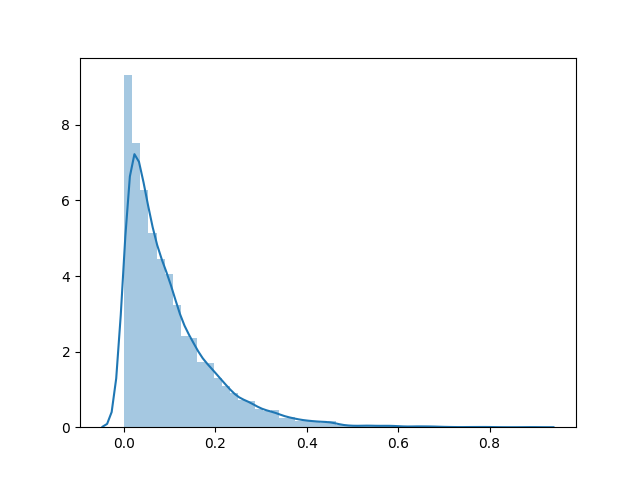
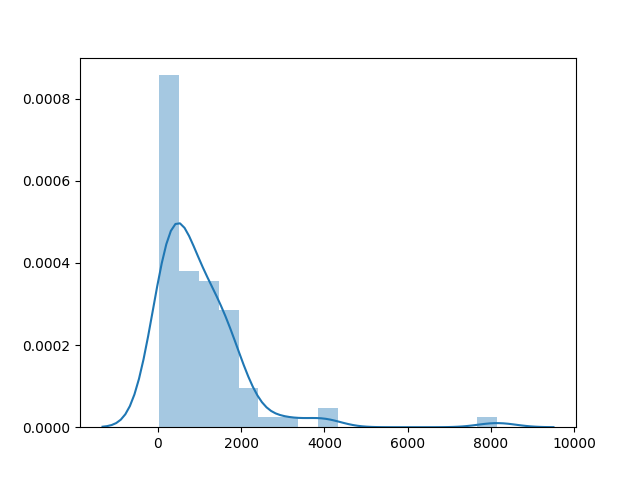
Ex1 done - pushing tag

diff --git a/Ex1/python/Ex1.py b/Ex1/python/Ex1.py
@@ -2,23 +2,38 @@ import json
 import numpy as np
 import matplotlib.pyplot as plt
 # method block
-from math import exp
-from scipy.stats import expon
+from math import exp, log
+# from scipy.stats import expon
 import seaborn as sns
 
-sSize = 10000
+LAMBDA = 0.001
+
+
+def inverse(x):
+    return (-1000*log(1-x))
+
+
+def exp_sample(vX, TK):
+    k = 0
+    while(k < 87600):
+        vX.append(inverse(np.random.uniform()))
+        TK.append(sum(vX))
+        k = sum(vX)
 
 
 def ex1():
     data = {}
-    vX = expon.rvs(scale=1000, size=sSize)
-    TK = np.array([vX[0:i+1].sum(axis=0) / sSize for i in range(sSize)])
+#     vX = expon.rvs(scale=1000, size=sSize)
+    vX = []
+    TK = []
+    exp_sample(vX, TK)
+    print(vX, '\n', TK)
+    # TK = np.array([vX[0:i+1].sum(axis=0) / sSize for i in range(sSize)])
     print(max(TK))
     print(TK)
     T_vida = []
-    T_vida.append(0)
-    T_vida[0] = TK[0]
-    T_vida += [TK[i+1]-TK[i] for i in range(sSize-1)]
+    T_vida.append(TK[0])
+    T_vida += [TK[i+1]-TK[i] for i in range(len(TK)-1)]
 
     data['Tempo de vida - 10º componente'] = T_vida[9]
     data['Tempo de vida - mediana'] = np.median(np.sort(T_vida))
@@ -32,7 +47,7 @@ def ex1():
     sns.distplot(T_vida)
     plt.savefig("../../assets/data/Ex1.png")
     plt.clf()
-    return vX
+    return TK
 
 
 def ex2(times):
@@ -40,8 +55,8 @@ def ex2(times):
     alpha = (1/1.05)
     beta = 10
     cost = []
-    for i in range(sSize):
-        cost.append(beta * exp(-1 * alpha * (times[i]/(8760))))
+    for i in range(len(times)):
+        cost.append(beta * exp(-1 * alpha * (times[i]/(87600))))
 
     data['Custo de manutenção - 10º componente'] = cost[9]
     data['Custo de manutenção - media'] = np.mean(np.sort(cost))
@@ -57,8 +72,8 @@ def ex2(times):
 
 
 def main():
-    vX = ex1()
-    ex2(vX)
+    TK = ex1()
+    ex2(TK)
 
 
 main()
